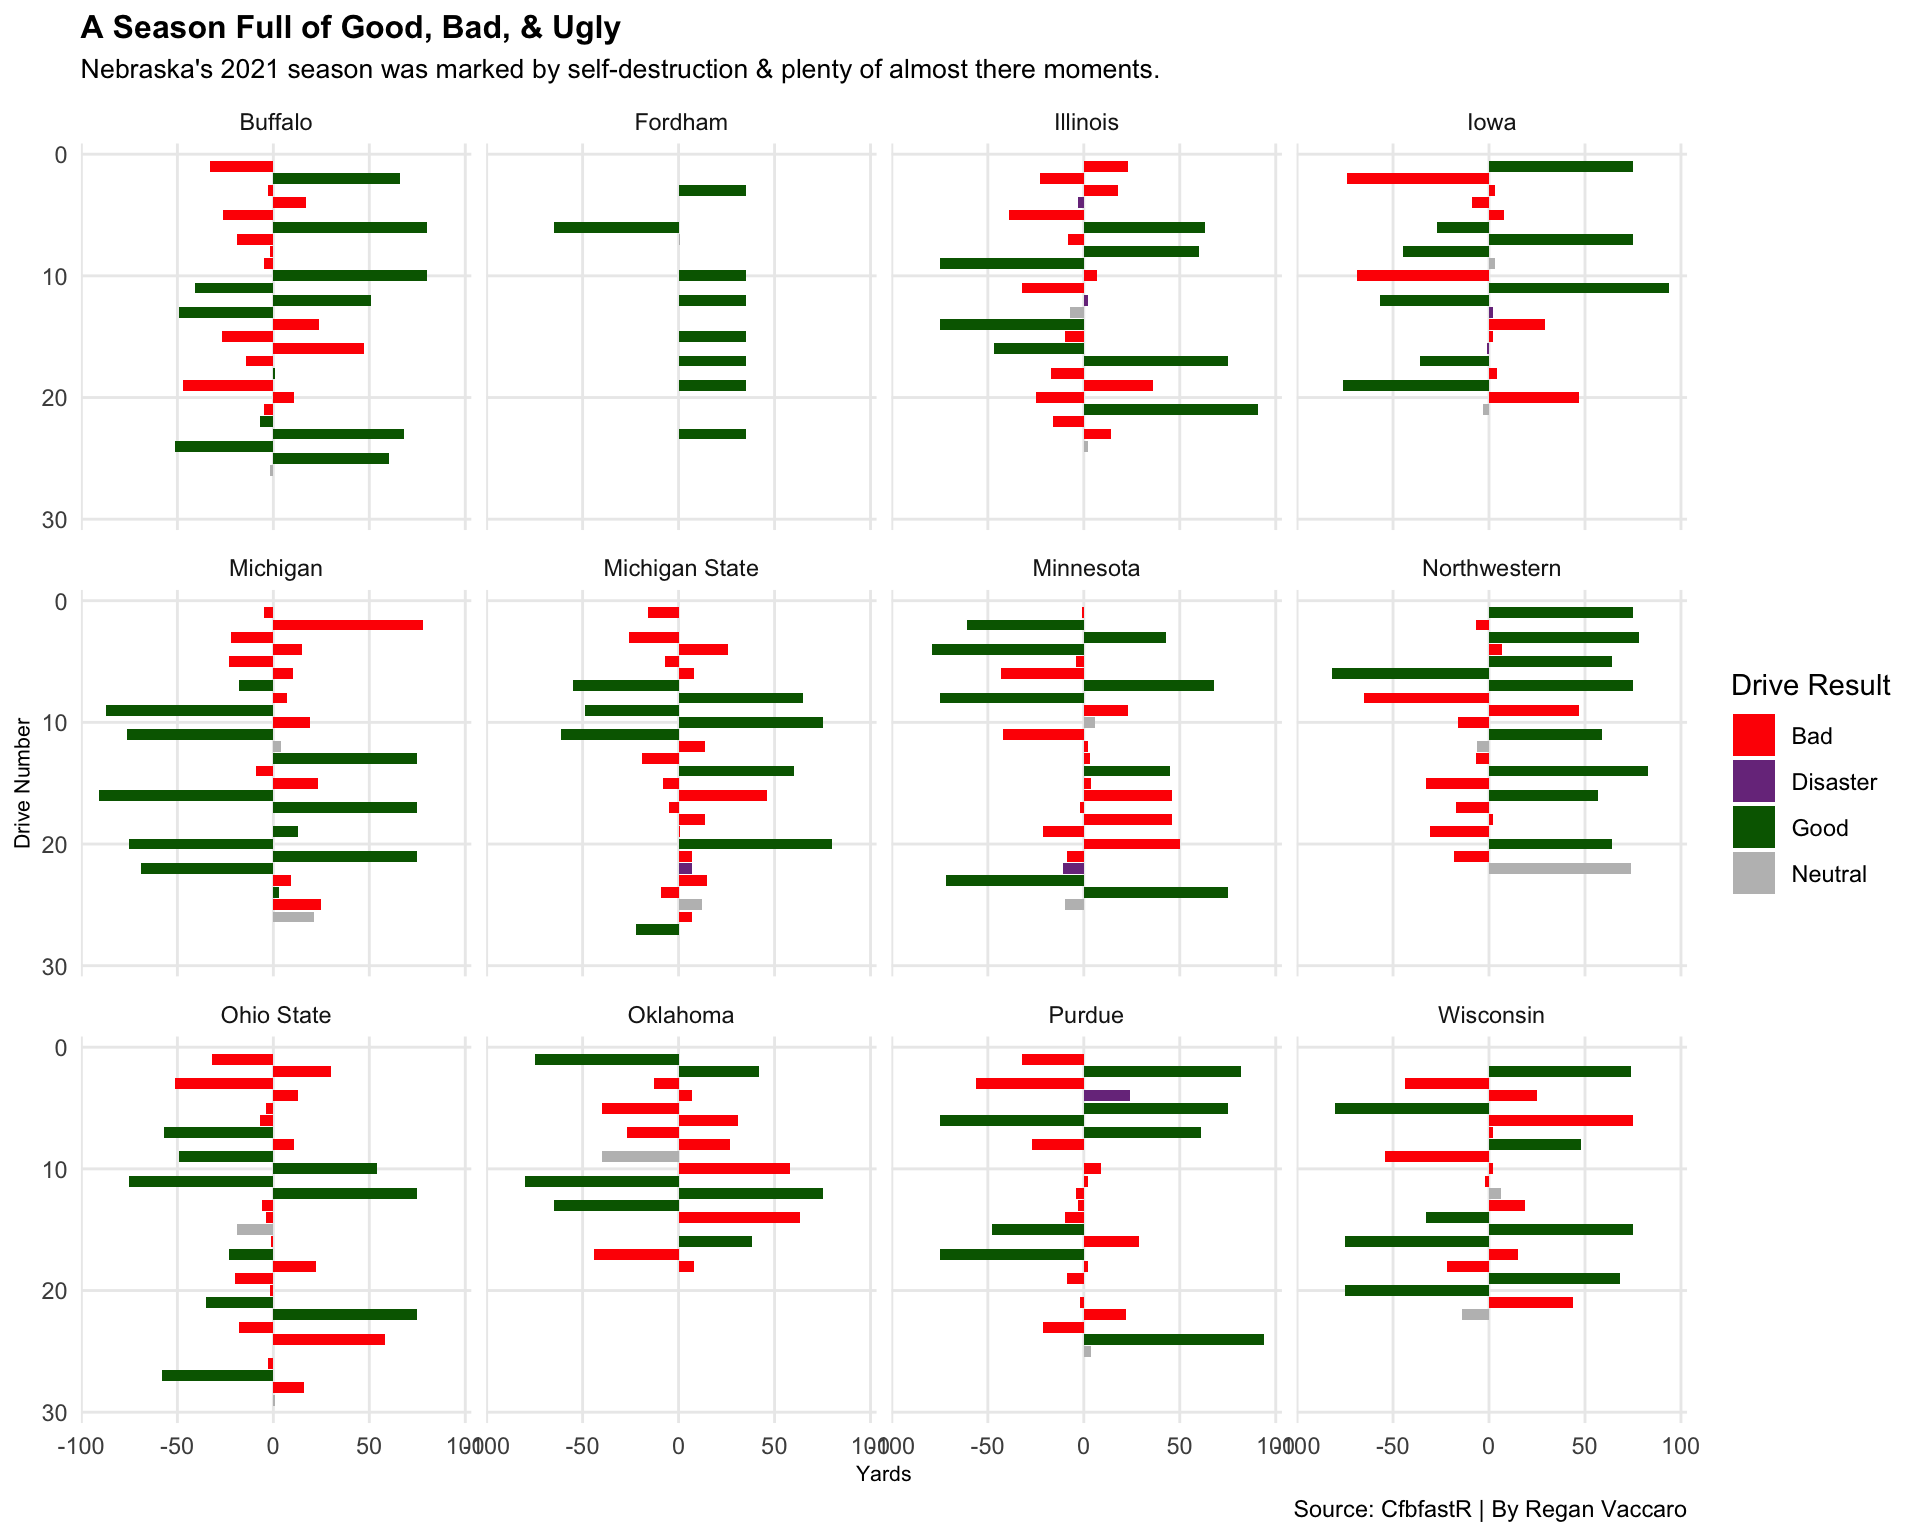
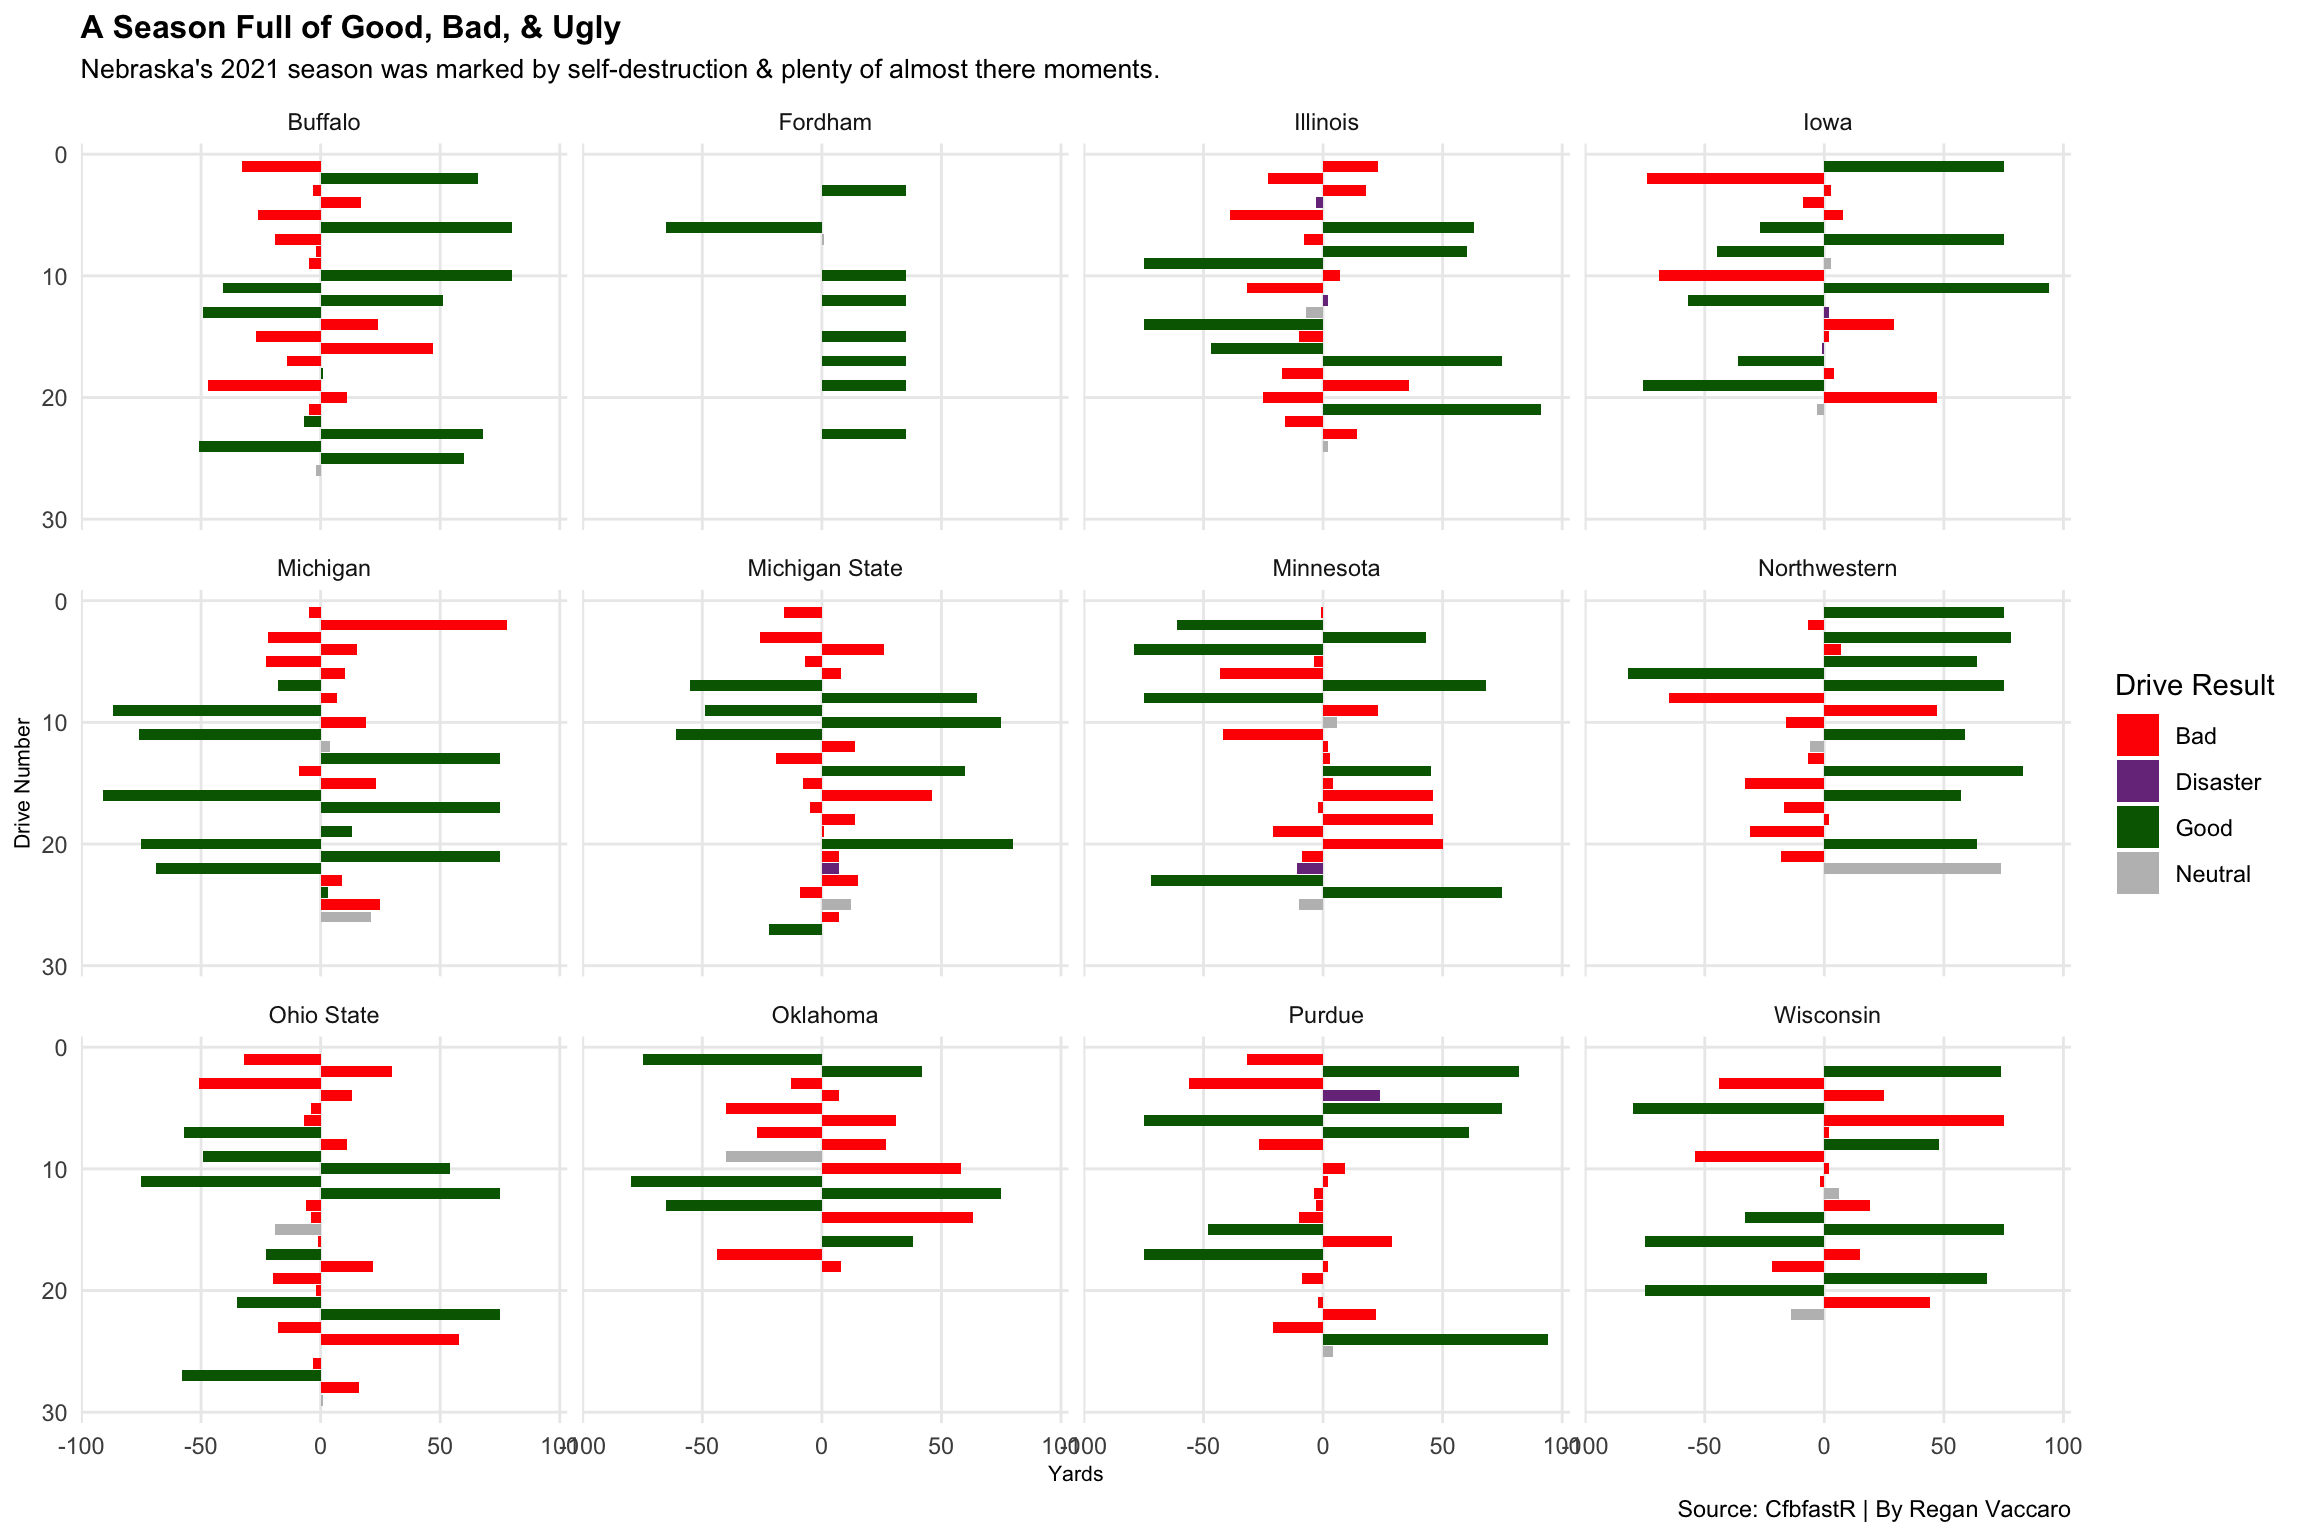
woo

diff --git a/2021/12/02/is-nebraska-the-best-3-win-team-in-college-football/index.html b/2021/12/02/is-nebraska-the-best-3-win-team-in-college-football/index.html
@@ -133,7 +133,7 @@ team_colors_logos = team_info %&gt;%
     axis.title = element_text(size = 8),
     plot.subtitle = element_text(size=10),
     panel.grid.minor = element_blank())</code></pre>
-<p><img src="http://reganvaccaro.github.io/2021/12/02/is-nebraska-the-best-3-win-team-in-college-football/index_files/figure-html/unnamed-chunk-6-1.png" width="960" />
+<p><img src="http://reganvaccaro.github.io/2021/12/02/is-nebraska-the-best-3-win-team-in-college-football/index_files/figure-html/unnamed-chunk-6-1.png" width="1152" />
 Nebraska ended their season having scored 314 points and only 244 points were scored against them. That left them with a +70 overall for the season. In Big Ten play, they had a +7 in points scores versus points allowed. The graphs above show these statistics very accurately. For their wins against Buffalo, Fordham, &amp; Northwestern, the graphs show mostly green. For every other game, it is a different story. For each good drive, it seemed like there was an equal and opposite drive in the opposing team’s favor. That doesn’t discount all of the good that Nebraska played in the season, however.The graph shows that Nebraska competed well, but had major problems in sealing the deal in the end.</p>
 <p>It’s understood that the Huskers played well, but how tough was the competition?
 Next, I want to look at the SRS (Simple Rating System) rating that takes into account a team’s average scoring margin as well as the strength of schedule. The higher the rating, the harder the schedule was along with point differential.</p>
